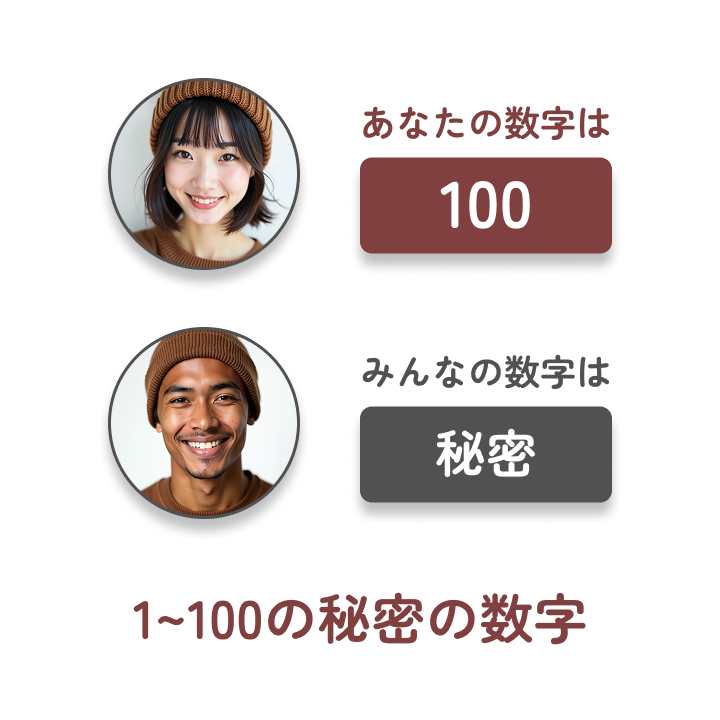
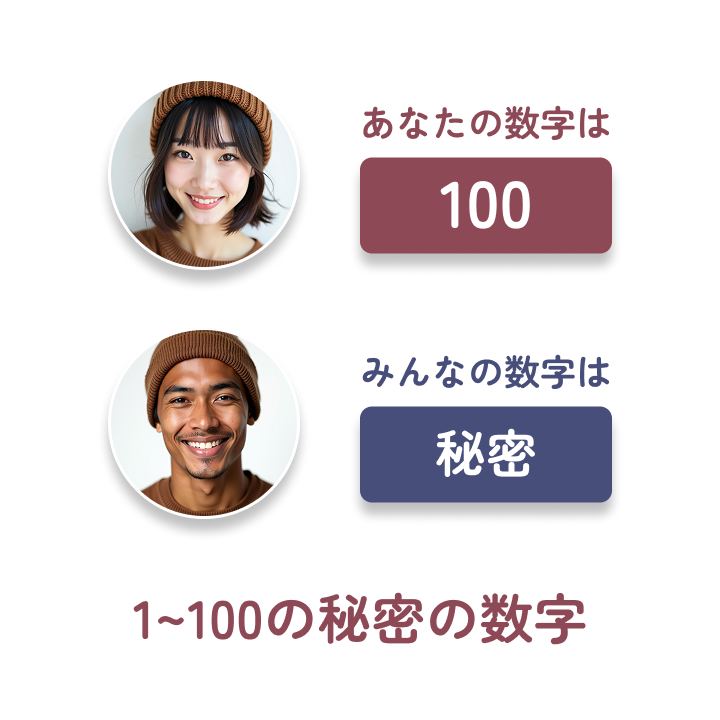
feat: update colors and images

diff --git a/lib/screens/top_screen.dart b/lib/screens/top_screen.dart
@@ -25,6 +25,9 @@ class TopScreen extends StatefulWidget {
 class _TopScreenState extends State<TopScreen> {
   final TextEditingController _controller = TextEditingController();
 
+  final _blue = Colors.blueGrey;
+  final _githubUrl = 'https://github.com/KazmaWed/flutter_online_cardgame';
+
   bool _isLoggedIn = FirebaseRepository.isLoggedIn;
   bool _busy = false;
 
@@ -86,10 +89,10 @@ class _TopScreenState extends State<TopScreen> {
   Widget build(BuildContext context) {
     final l10n = AppLocalizations.of(context)!;
 
-    final linkTextStyle = Theme.of(context).textTheme.bodyLarge!.copyWith(color: Colors.blue);
+    final linkTextStyle = Theme.of(context).textTheme.bodyLarge!.copyWith(color: _blue);
 
     final linkButtonStyle = TextButton.styleFrom(
-      overlayColor: Colors.blue,
+      overlayColor: _blue,
       shape: RoundedRectangleBorder(
         borderRadius: BorderRadius.circular(AppDimentions.paddingSmall),
       ),
@@ -99,7 +102,7 @@ class _TopScreenState extends State<TopScreen> {
 
     final githubButton = TextButton(
       onPressed: () async {
-        final uri = Uri.parse('https://github.com/KazmaWed/flutter_online_cardgame');
+        final uri = Uri.parse(_githubUrl);
         if (await canLaunchUrl(uri)) {
           await launchUrl(uri);
         }
@@ -138,7 +141,10 @@ class _TopScreenState extends State<TopScreen> {
                           onHowToPlay: _instruction,
                         )
                       : Center(
-                          child: RectangularTextButton(label: AppLocalizations.of(context)!.start, onPressed: _signin),
+                          child: RectangularTextButton(
+                            label: AppLocalizations.of(context)!.start,
+                            onPressed: _signin,
+                          ),
                         ),
                 ),
               ],

diff --git a/lib/main.dart b/lib/main.dart
@@ -49,10 +49,13 @@ Future<void> main() async {
 class MyApp extends ConsumerWidget {
   const MyApp({super.key});
 
+  final _surfaceColor = Colors.white;
+  final _seedColor = Colors.pink;
+
   @override
   Widget build(BuildContext context, WidgetRef ref) {
     final locale = ref.watch(localeProvider);
-    
+
     return MaterialApp(
       onGenerateTitle: (context) => AppLocalizations.of(context)!.appTitle,
       debugShowCheckedModeBanner: false,
@@ -63,12 +66,9 @@ class MyApp extends ConsumerWidget {
         GlobalWidgetsLocalizations.delegate,
         GlobalCupertinoLocalizations.delegate,
       ],
-      supportedLocales: const [
-        Locale(AppConstants.japaneseCode),
-        Locale(AppConstants.englishCode),
-      ],
+      supportedLocales: const [Locale(AppConstants.japaneseCode), Locale(AppConstants.englishCode)],
       theme: ThemeData(
-        colorScheme: ColorScheme.fromSeed(seedColor: Colors.brown).copyWith(surface: Colors.white),
+        colorScheme: ColorScheme.fromSeed(seedColor: _seedColor).copyWith(surface: _surfaceColor),
         fontFamily: AppFonts.zenMaruGothic,
       ),
       home: const StartupScreen(),

diff --git a/lib/l10n/app_localizations_en.dart b/lib/l10n/app_localizations_en.dart
@@ -105,7 +105,7 @@ class AppLocalizationsEn extends AppLocalizations {
   String get kick => 'Kick';
 
   @override
-  String get chooseFromPresets => 'Choose from\npresets';
+  String get chooseFromPresets => 'Presets';
 
   @override
   String get cancel => 'Cancel';
